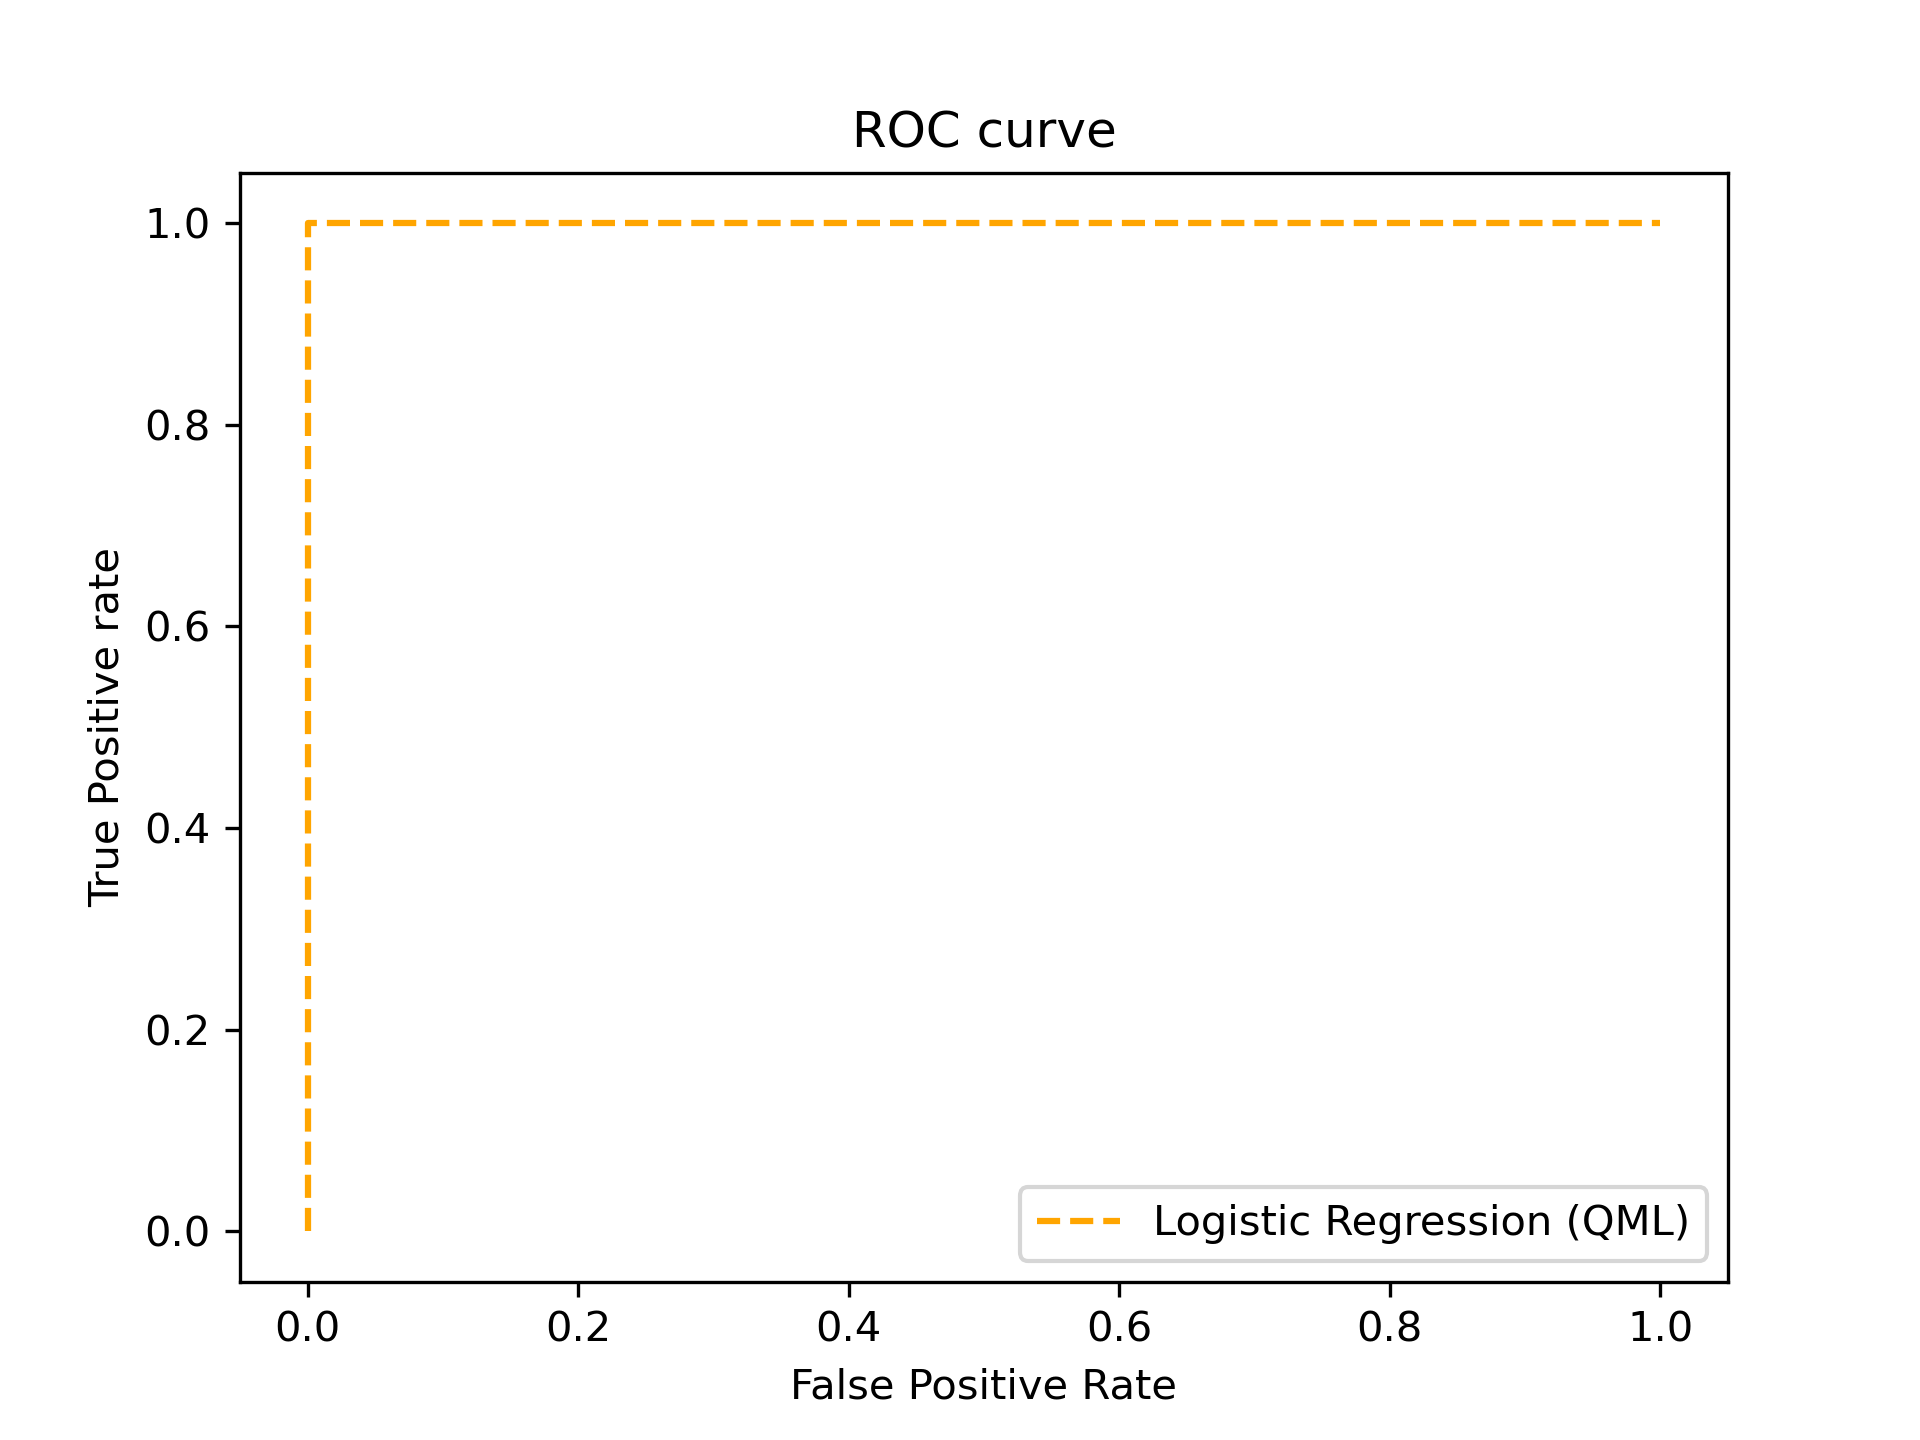
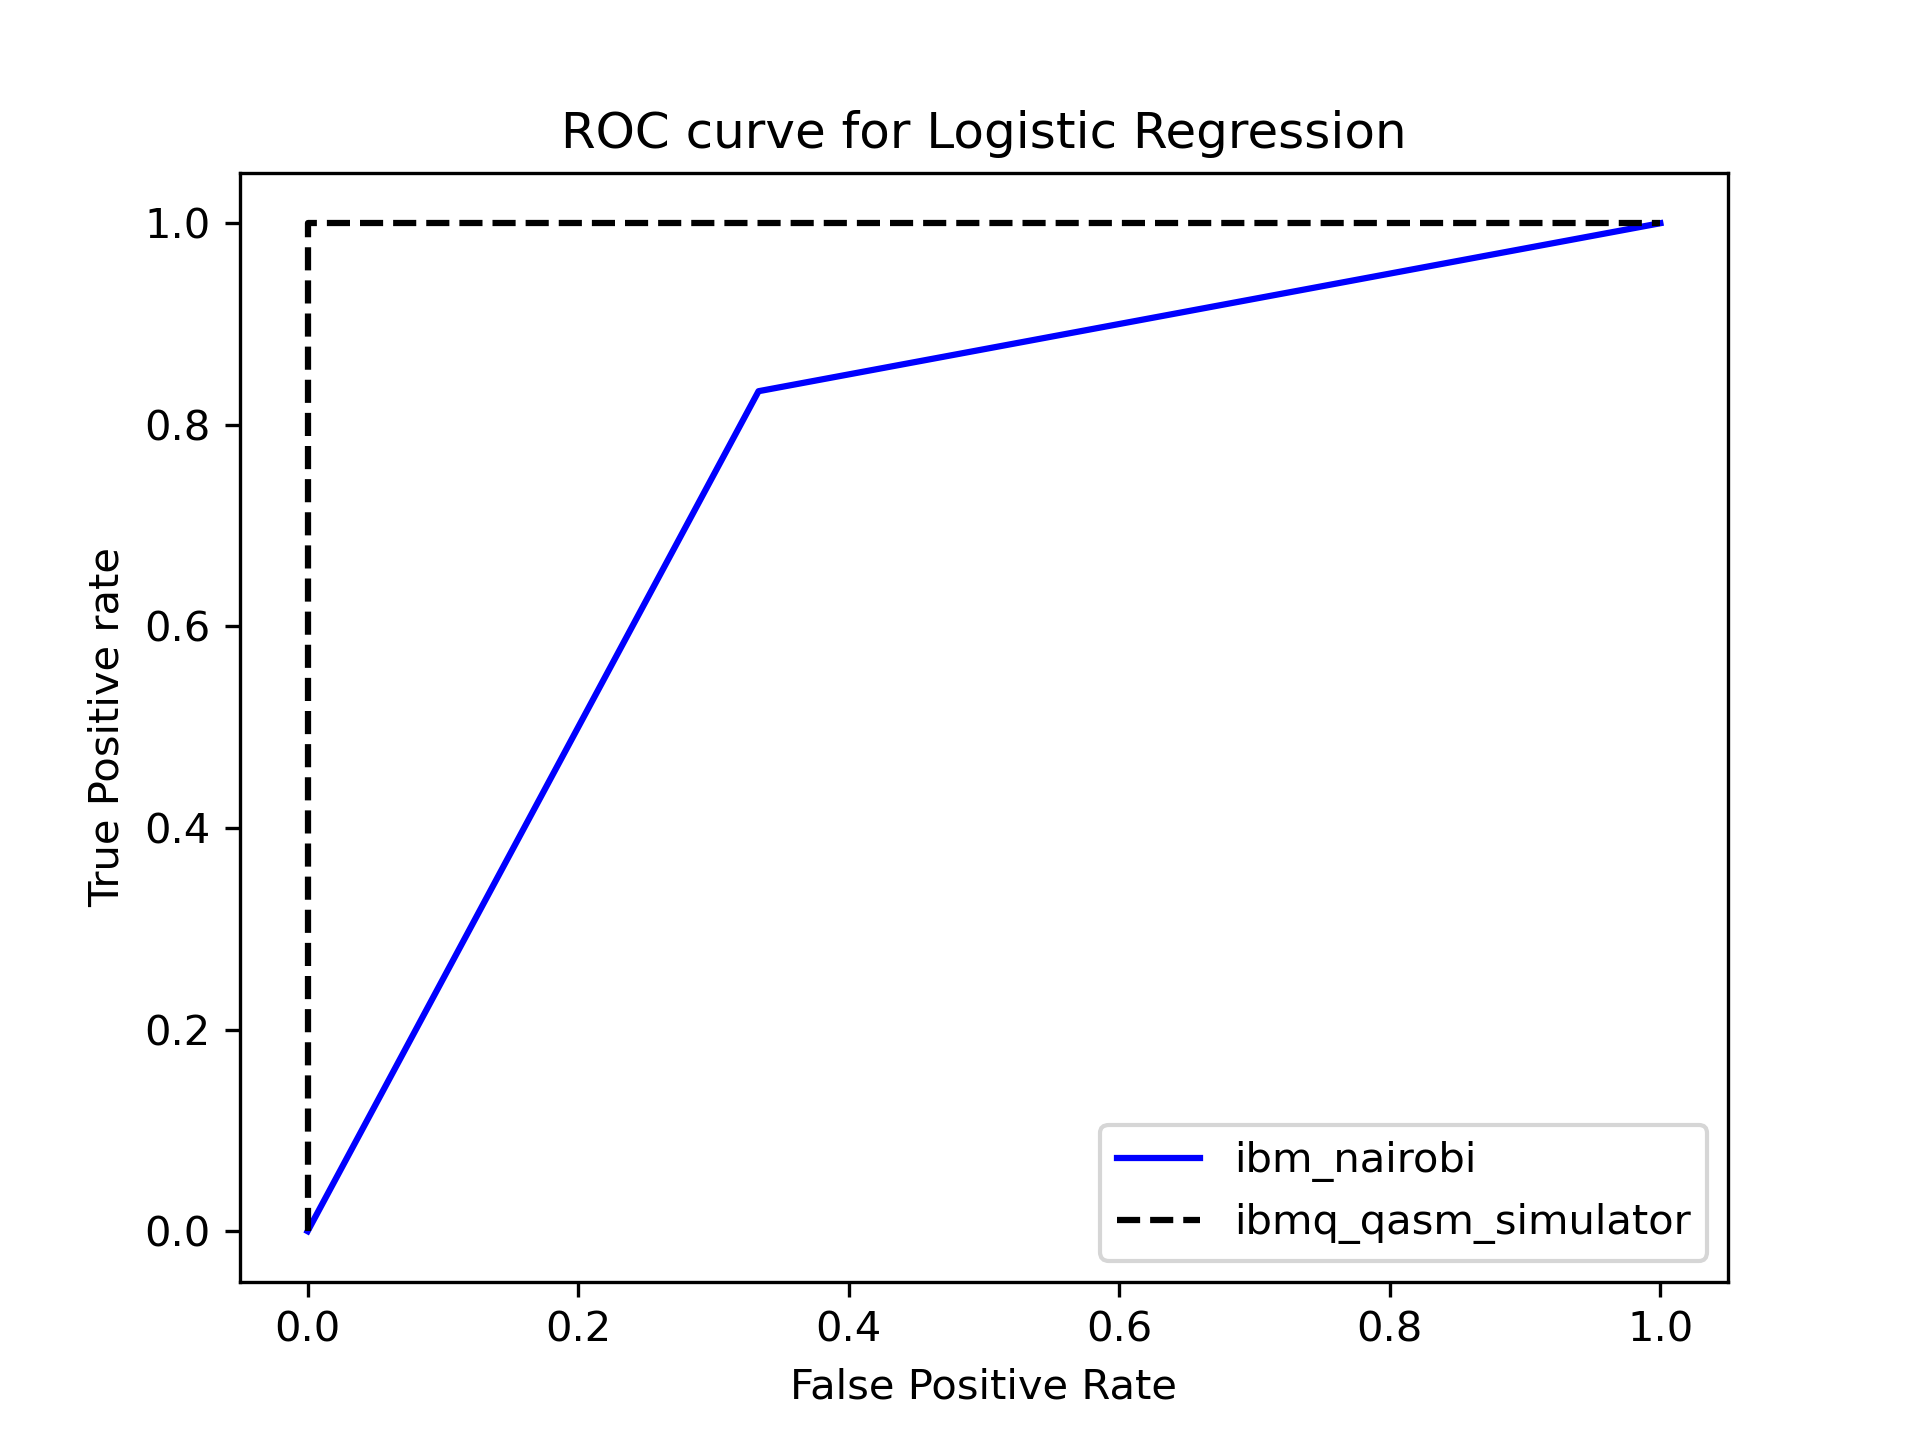
quality of life enhancement.
now it runs on simulator and hardware to show roc curve comparison

diff --git a/model_testing.py b/model_testing.py
@@ -17,7 +17,7 @@ class model_testing:
         self.beta = trained_weights
         self.ip_bit_accuracy = inner_product_bit_accuracy
         self.fxn_bit_accuracy = activation_fxn_bit_accuracy
-        self.scaling_factor = 10
+        self.scaling_factor = 7
         self.f = lambda z: 1 / (1 + exp(-1 * self.scaling_factor * z))
 
         IBMQ.load_account()
@@ -45,13 +45,16 @@ class model_testing:
         self.x_test = self.dataset[:, :-1]
         self.y_true = self.dataset[:, -1]
         self.y_pred = []
+        self.y_simulator_pred = []
 
-    def run_model_on_backend(self, backend, shots=32000):
+    def run_model_on_backend(self, backend, shots=50000):
+        self.backend_name = backend
         self.backend = self.provider.get_backend(backend)
 
         circuit_batch_list = []
-        for i in tqdm(range(len(self.x_test)), desc="Building Circuit Batch"):
-
+        for i in range(len(self.x_test)):
+            if i % 2 == 0:
+                print("Building circuit(s) ... {} %".format(round(100 * i / len(self.x_test), 3)))
             self.circuit = basis_encoding_circuit()
 
             self.circuit.encode_data(self.x_test[i])
@@ -68,35 +71,41 @@ class model_testing:
                 circuit_batch_list.append(self.circuit.inference_circuit)
             else:
                 print(self.x_test[i])
+        print("Building circuit(s) ... Done \n")
 
-        print("Running Circuits ...")
-        self.backend = self.provider.get_backend(backend)
+        print("Running circuit(s) on {} ... ".format(self.backend_name))
         job = execute(
             transpile(circuit_batch_list, self.backend),
             backend=self.backend,
             shots=shots
         )
         self.result = job.result()
+        print("Done. \n")
+
+        if self.backend_name != "ibmq_qasm_simulator":
+            print("Running circuit(s) on ibmq_qasm_simulator ... ")
+            self.sim_backend = self.provider.get_backend("ibmq_qasm_simulator")
+            job = execute(
+                transpile(circuit_batch_list, self.sim_backend),
+                backend=self.sim_backend,
+                shots=shots
+            )
+            self.simulation_results = job.result()
+            print("Done. \n")
+
+            for i in range(len(circuit_batch_list)):
+                counts = self.simulation_results.get_counts(i)
+                y_simulation_pred_value = self.get_class(counts)
+                self.y_simulator_pred.append([y_simulation_pred_value])
 
         for i in range(len(circuit_batch_list)):
             counts = self.result.get_counts(i)
             y_pred_value = self.get_class(counts)
             self.y_pred.append([y_pred_value])
 
-    def run_circuit_from_qasm(self, qasm_file, backend, shots=32000):
-        backend = self.provider.get_backend(backend)
-        qasm_circuit = QuantumCircuit.from_qasm_file('./{}'.format(qasm_file))
-        qasm_circuit.draw(output='mpl')
-        plt.show()
-        job = execute(
-            transpile(qasm_circuit, backend),
-            backend=backend,
-            shots=shots
-        )
-        result = job.result()
-        print(result)
-
     def print_metrics(self):
+        print("Printing metrics for backend {} ... \n".format(self.backend_name))
+
         self.print_confusion_matrix_and_measures()
         self.print_auc_score()
         self.plot_roc_curve()
@@ -146,12 +155,14 @@ class model_testing:
 
     def plot_roc_curve(self):
         fpr, tpr, thres = roc_curve(self.y_true, self.y_pred, pos_label=1)
-        plt.plot(fpr, tpr, linestyle='--', color='orange', label='Logistic Regression (QML)')
-        # title
-        plt.title('ROC curve')
-        # x label
+        plt.plot(fpr, tpr, linestyle='-', color='blue', label='{}'.format(self.backend_name))
+
+        if self.backend_name != "ibmq_qasm_simulator":
+            fpr_sim, tpr_sim, thres_sim = roc_curve(self.y_true, self.y_simulator_pred, pos_label=1)
+            plt.plot(fpr_sim, tpr_sim, linestyle='--', color='black', label='{}'.format("ibmq_qasm_simulator"))
+
+        plt.title('ROC curve for Logistic Regression')
         plt.xlabel('False Positive Rate')
-        # y label
         plt.ylabel('True Positive rate')
         plt.legend(loc='best')
         plt.savefig('ROC', dpi=300)
@@ -172,3 +183,16 @@ class model_testing:
         pyplot.show()
 
         df.to_csv("make_blobs_dataset.csv")
+
+    def run_circuit_from_qasm(self, qasm_file, backend, shots=32000):
+        backend = self.provider.get_backend(backend)
+        qasm_circuit = QuantumCircuit.from_qasm_file('./{}'.format(qasm_file))
+        qasm_circuit.draw(output='mpl')
+        plt.show()
+        job = execute(
+            transpile(qasm_circuit, backend),
+            backend=backend,
+            shots=shots
+        )
+        result = job.result()
+        print(result)

diff --git a/qml_inference_circuit.py b/qml_inference_circuit.py
@@ -43,15 +43,21 @@ class basis_encoding_circuit:
         x_qregs = array([reg for reg in qregs if "x" in reg.name], dtype=object)
 
         if x_qregs.ndim == 2:
+            # when data is only bias
             first_element = x_qregs[0, 0]
+            last_element = x_qregs[-1, 0]
             start_index = int(first_element.register.name.lstrip('x').rstrip('_float').rstrip('_int'))
+            last_index = int(last_element.register.name.lstrip('x').rstrip('_float').rstrip('_int'))
+
         else:
             first_element = x_qregs[0]
+            last_element = x_qregs[-1]
             start_index = int(first_element.name.lstrip('x').rstrip('_float').rstrip('_int'))
+            last_index = int(last_element.name.lstrip('x').rstrip('_float').rstrip('_int'))
 
         x_qregs_sorted = []
         curr = start_index
-        for i in range(len(x_qregs)):
+        for i in range(last_index + 1):
             temp = []
             for x in x_qregs:
                 if "{}".format(curr) in x[0].register.name:
@@ -66,7 +72,7 @@ class basis_encoding_circuit:
                 for qubit in type:
                     for gate in encode_data_circuit:
                         # gate[1] contains all qubits that have an x gate on them
-                        if qubit in gate[1]:
+                        if qubit in gate[1] and gate[0].name == 'x':
                             for i in reversed(range(num_of_ip_anc)):
                                 if "int" in qubit.register.name:
                                     self.inference_circuit.append(

diff --git a/main.py b/main.py
@@ -2,7 +2,7 @@ from model_testing import *
 
 inner_prod_bit_accuracy = 2
 activation_fxn_bit_accuracy = 1
-backend_name = "ibmq_qasm_simulator"
+backend_name = "ibm_nairobi"
 
 # w1, w2, b
 beta = array([-8.803, -14.53, 12.57]) / 10
